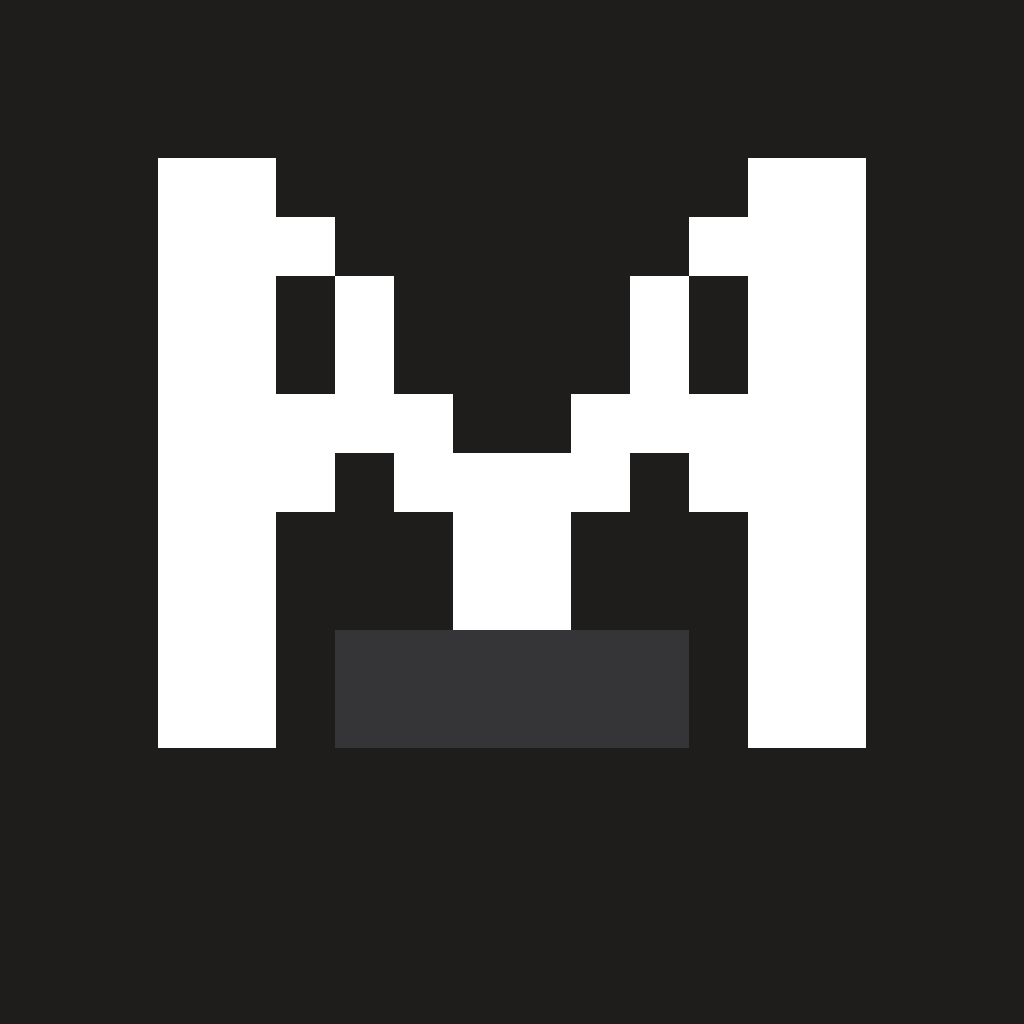
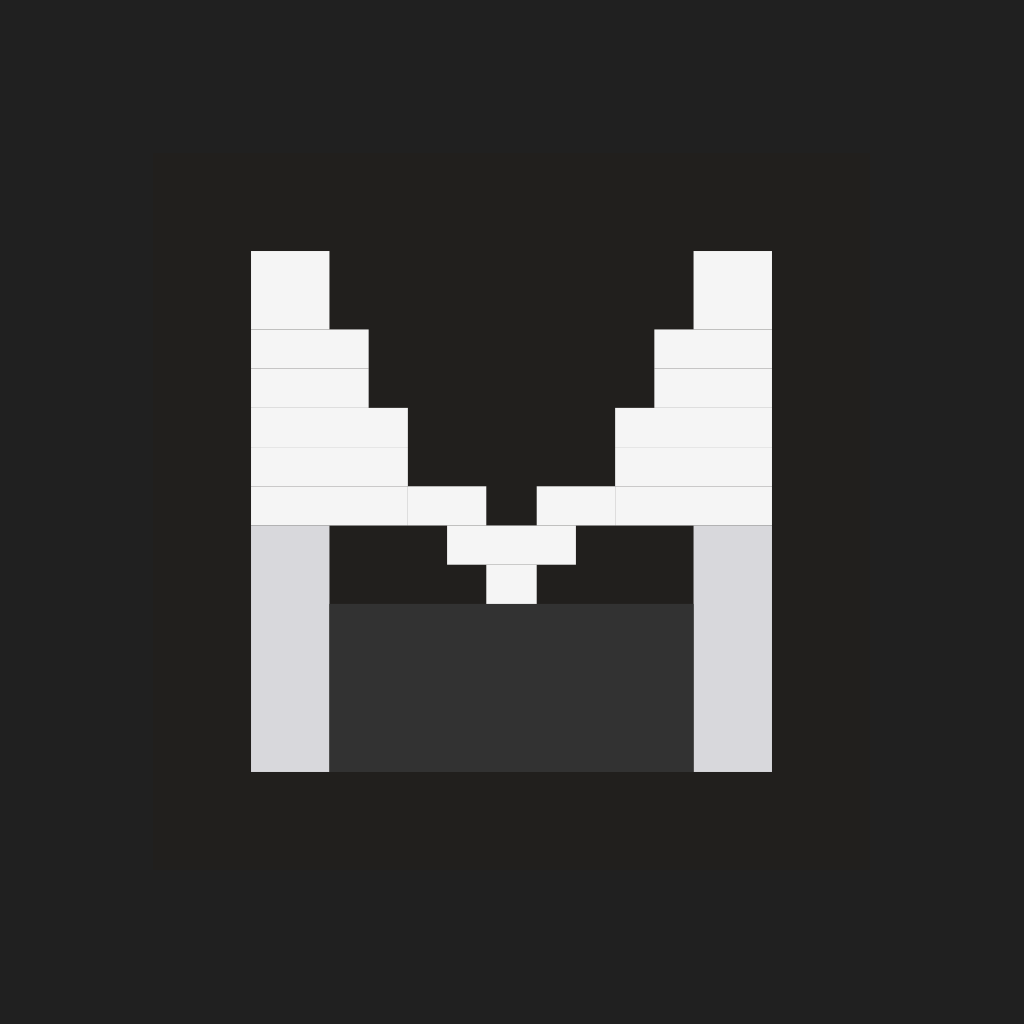
feat: added correct images for branding

Changed region(s): [[0.1562, 0.1562, 0.8438, 0.7812]]

diff --git a/app.config.ts b/app.config.ts
@@ -12,6 +12,11 @@ const config: ExpoConfig = {
   slug: 'opencode-mobile',
   version: '1.0.0',
   orientation: 'portrait',
+  splash: {
+    image: "./assets/images/splash.png",
+    resizeMode: "contain",
+    backgroundColor: "#202020"
+  },
   icon: './assets/images/icon.png',
   scheme: 'opencodemobile',
   userInterfaceStyle: 'automatic',
@@ -19,10 +24,8 @@ const config: ExpoConfig = {
   android: {
     package: androidPackage ?? 'app.getopencode.mobile',
     adaptiveIcon: {
-      backgroundColor: '#1F1D1C',
-      foregroundImage: './assets/images/android-icon-foreground.png',
-      backgroundImage: './assets/images/android-icon-background.png',
-      monochromeImage: './assets/images/android-icon-monochrome.png',
+      foregroundImage: './assets/images/adaptive-icon.png',
+      backgroundColor: "#202020"
     },
     edgeToEdgeEnabled: true,
     predictiveBackGestureEnabled: false,
